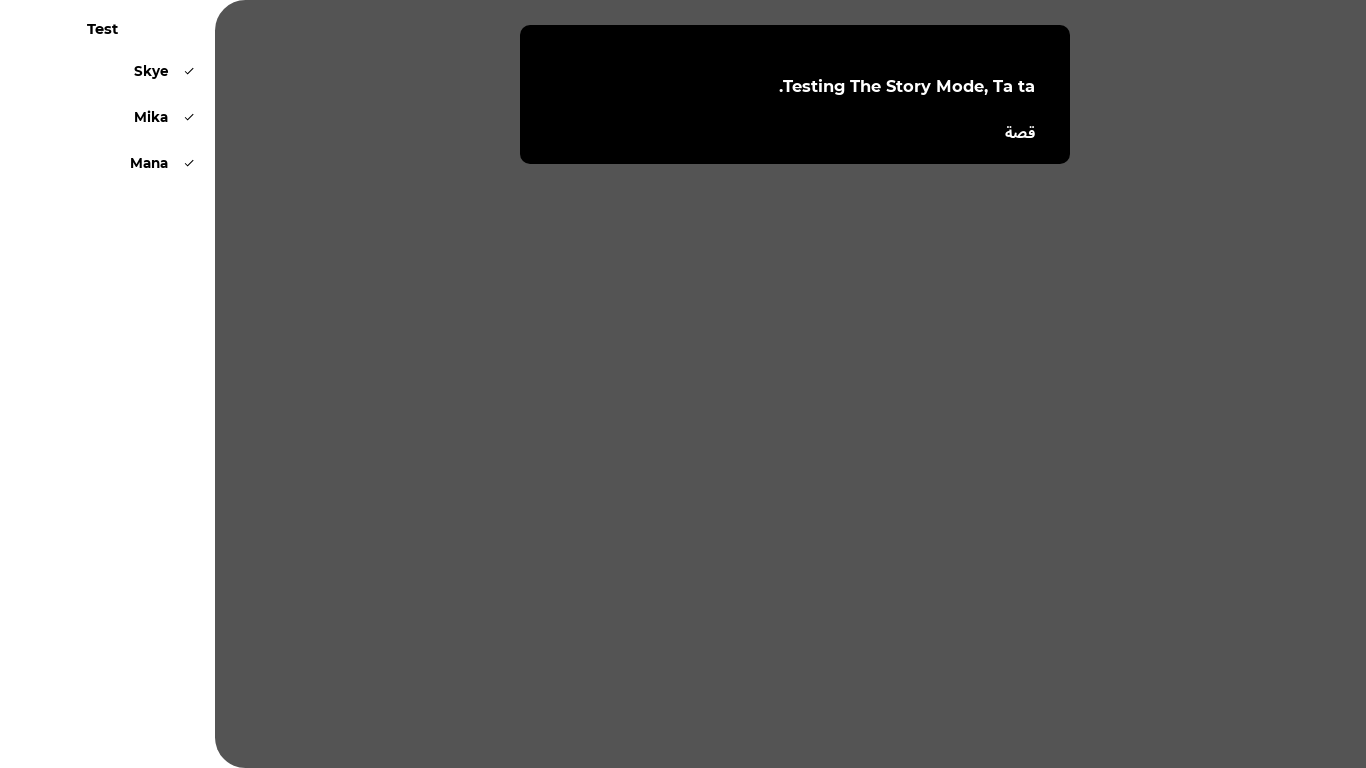
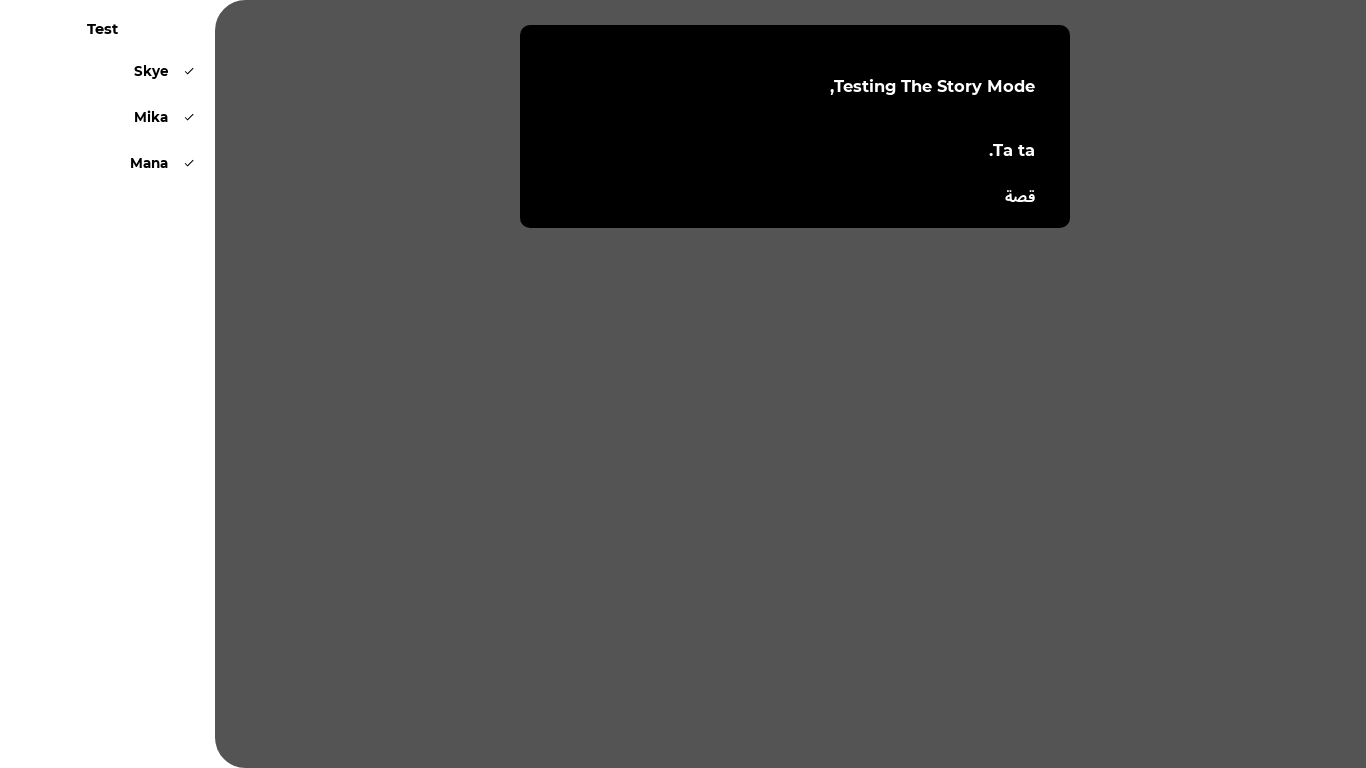
parse newline is qassa

Changed region(s): [[0.369, 0.1562, 0.7994, 0.3125], [0.5534, 0.0938, 0.7687, 0.125]]

diff --git a/src/components/fieldOverlay.js b/src/components/fieldOverlay.js
@@ -213,7 +213,7 @@ class FieldOverlay extends StoreComponent
                     <CSSTransition key={ field[0].story.key } timeout={ 250 }>
                       <div className={ styles.qassa }>
                         <div className={ styles.content }>
-                          { field[0].story.composed.text }
+                          { field[0].story.composed.text?.replace(/\\n/g, '\n') }
                           <div className={ styles.bottom }>{ i18n('qassa') }</div>
                         </div>
                       </div>
